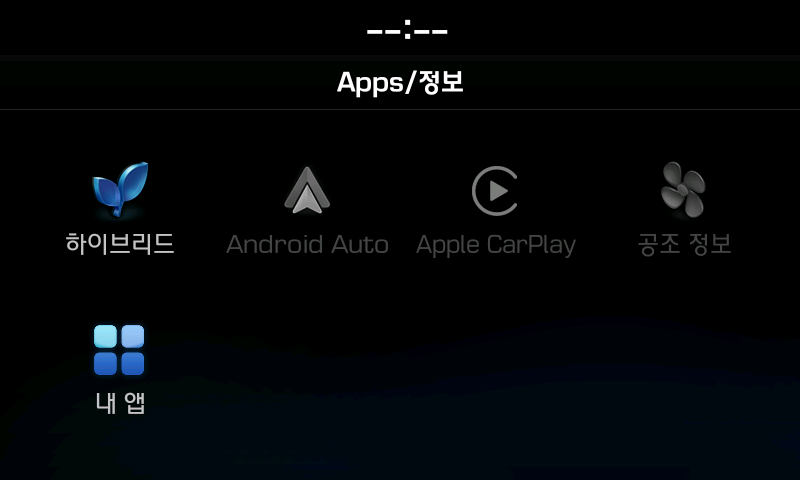
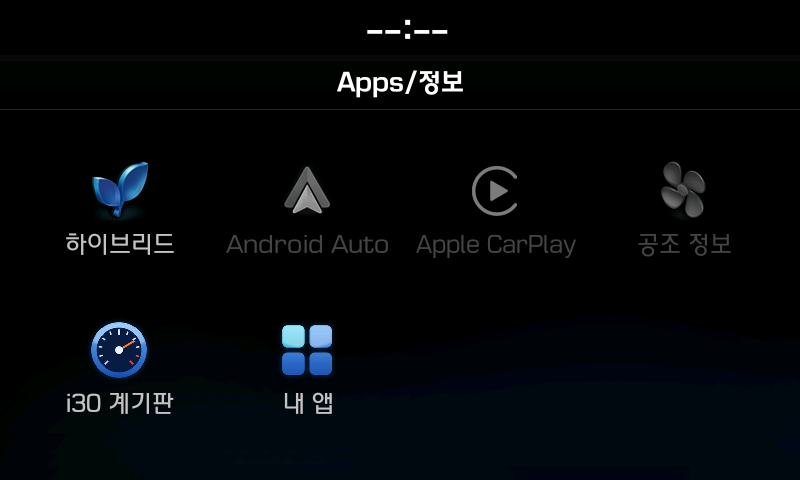
Menu hook: Apps/정보 gets i30 계기판 and 내 앱, each only when installed and launchable
HubEntryHelper adds the dashboard before My Apps, with the app's own label and icon. Checked on the V141 emulator:
both tiles show and the 계기판 tile opens DashboardActivity. The Veloster (jsn_kr) profile pins the old helper's
payload hashes, so build_menu_entry.py will refuse until the profile is updated for this helper.

Changed region(s): [[0.0625, 0.6562, 0.2188, 0.875], [0.3438, 0.6562, 0.4375, 0.7812], [0.3438, 0.8125, 0.4375, 0.875]]

diff --git a/menu-entry/helper/com/veloster/menu/HubEntryHelper.java b/menu-entry/helper/com/veloster/menu/HubEntryHelper.java
@@ -10,48 +10,53 @@ import android.graphics.drawable.Drawable;
 import com.hkmc.system.app.downloadmenu.define.Item;
 import java.util.ArrayList;
 
-/** Called only from the OEM menu's existing main-thread initialization. */
+/** Called only from the OEM menu's existing main-thread initialization. Adds the dashboard and My Apps, each only
+ *  when it is installed, enabled and launchable; otherwise the original OEM list is kept. */
 public final class HubEntryHelper {
-    private static final String PACKAGE = "com.veloster.carplayhub";
-    private static final String ACTIVITY = "com.veloster.carplayhub.HubActivity";
-    private static Item cachedItem;
+    private static final String[][] ENTRIES = {
+        {"com.veloster.dashboard", "com.veloster.dashboard.DashboardActivity"},
+        {"com.veloster.carplayhub", "com.veloster.carplayhub.HubActivity"},
+    };
+    private static final ArrayList<Item> cached = new ArrayList<Item>();
     private static int oemCount;
 
     private HubEntryHelper() {}
 
     public static void prepare(Context context) {
-        cachedItem = null;
+        cached.clear();
         oemCount = 0;
-        try {
-            PackageManager pm = context.getPackageManager();
-            ActivityInfo info = pm.getActivityInfo(new ComponentName(PACKAGE, ACTIVITY), 0);
-            if (!info.enabled || !info.exported || !info.applicationInfo.enabled) return;
-            if (info.permission != null && pm.checkPermission(info.permission, context.getPackageName())
-                    != PackageManager.PERMISSION_GRANTED) return;
-            Drawable drawable = info.loadIcon(pm);
-            if (drawable == null) return;
-            Bitmap icon = Bitmap.createBitmap(128, 128, Bitmap.Config.ARGB_8888);
-            drawable.setBounds(0, 0, 128, 128);
-            drawable.draw(new Canvas(icon));
-            cachedItem = new Item(0x10000, PACKAGE, ACTIVITY, "내 앱", icon, icon);
-        } catch (Exception unavailable) {
-            // Missing, disabled or inaccessible Hub preserves the original OEM list.
-            cachedItem = null;
+        PackageManager pm = context.getPackageManager();
+        for (int i = 0; i < ENTRIES.length; i++) {
+            try {
+                ActivityInfo info = pm.getActivityInfo(new ComponentName(ENTRIES[i][0], ENTRIES[i][1]), 0);
+                if (!info.enabled || !info.exported || !info.applicationInfo.enabled) continue;
+                if (info.permission != null && pm.checkPermission(info.permission, context.getPackageName())
+                        != PackageManager.PERMISSION_GRANTED) continue;
+                Drawable drawable = info.loadIcon(pm);
+                if (drawable == null) continue;
+                Bitmap icon = Bitmap.createBitmap(128, 128, Bitmap.Config.ARGB_8888);
+                drawable.setBounds(0, 0, 128, 128);
+                drawable.draw(new Canvas(icon));
+                cached.add(new Item(0x10000 + i, ENTRIES[i][0], ENTRIES[i][1], info.loadLabel(pm).toString(), icon, icon));
+            } catch (Exception unavailable) {
+                // Missing, disabled or inaccessible: that entry is left out.
+            }
         }
     }
 
     public static int adjustDisplayCount(int original) {
         oemCount = original;
-        return original + (cachedItem == null ? 0 : 1);
+        return original + cached.size();
     }
 
     public static int originalCount() { return oemCount; }
 
     public static void append(ArrayList<Item> items) {
-        if (cachedItem == null) return;
-        for (Item item : items) {
-            if (PACKAGE.equals(item.getPackageName()) && ACTIVITY.equals(item.getClassName())) return;
+        for (Item add : cached) {
+            boolean present = false;
+            for (Item item : items)
+                if (add.getPackageName().equals(item.getPackageName()) && add.getClassName().equals(item.getClassName())) present = true;
+            if (!present) items.add(add);
         }
-        items.add(cachedItem);
     }
 }
